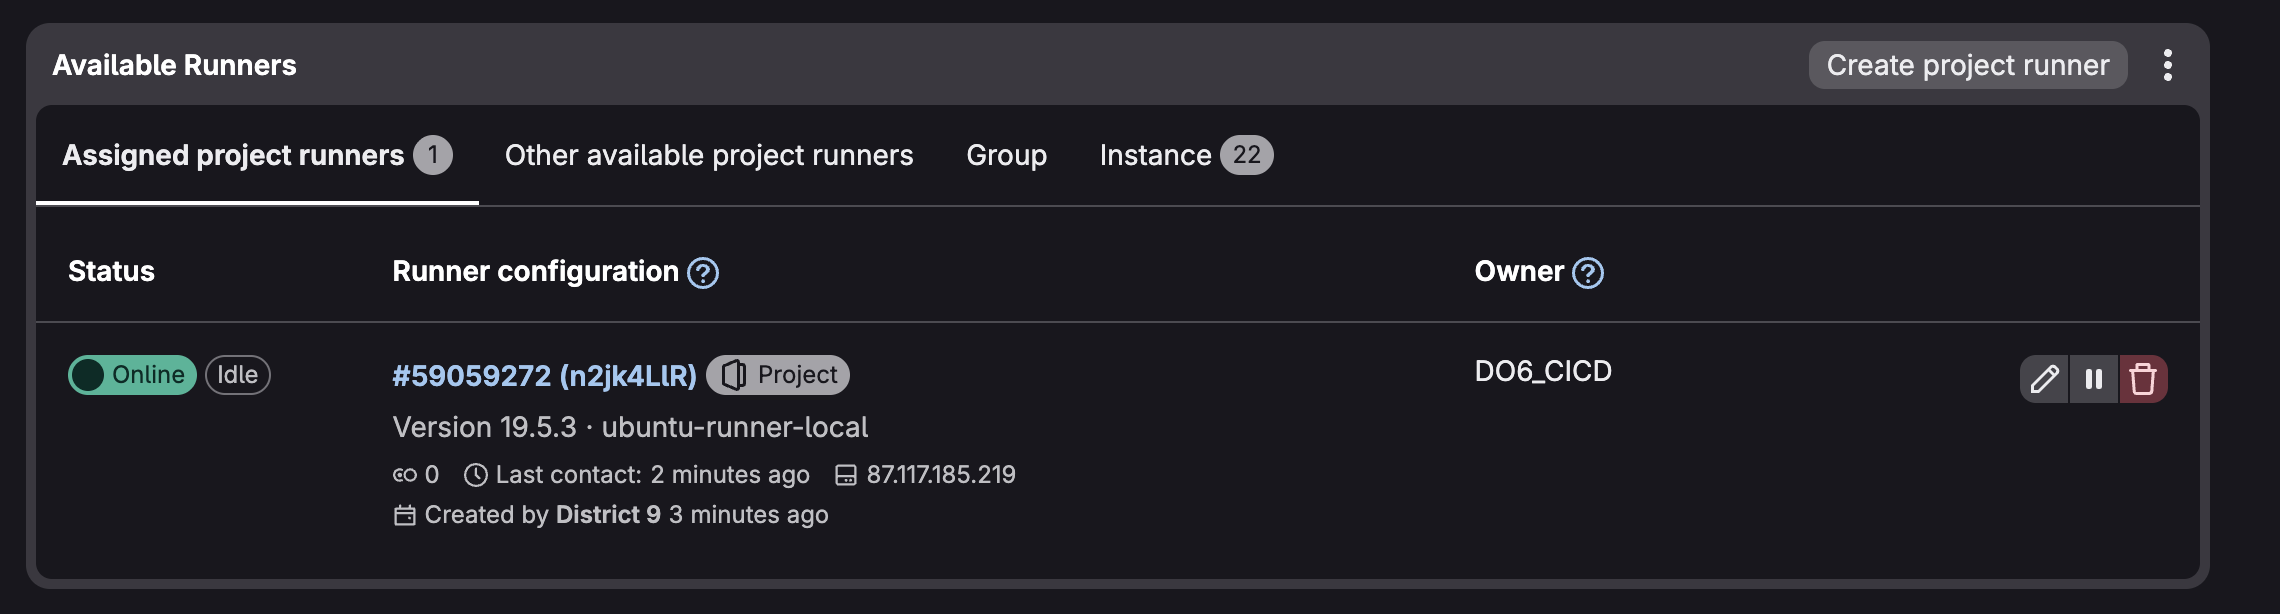
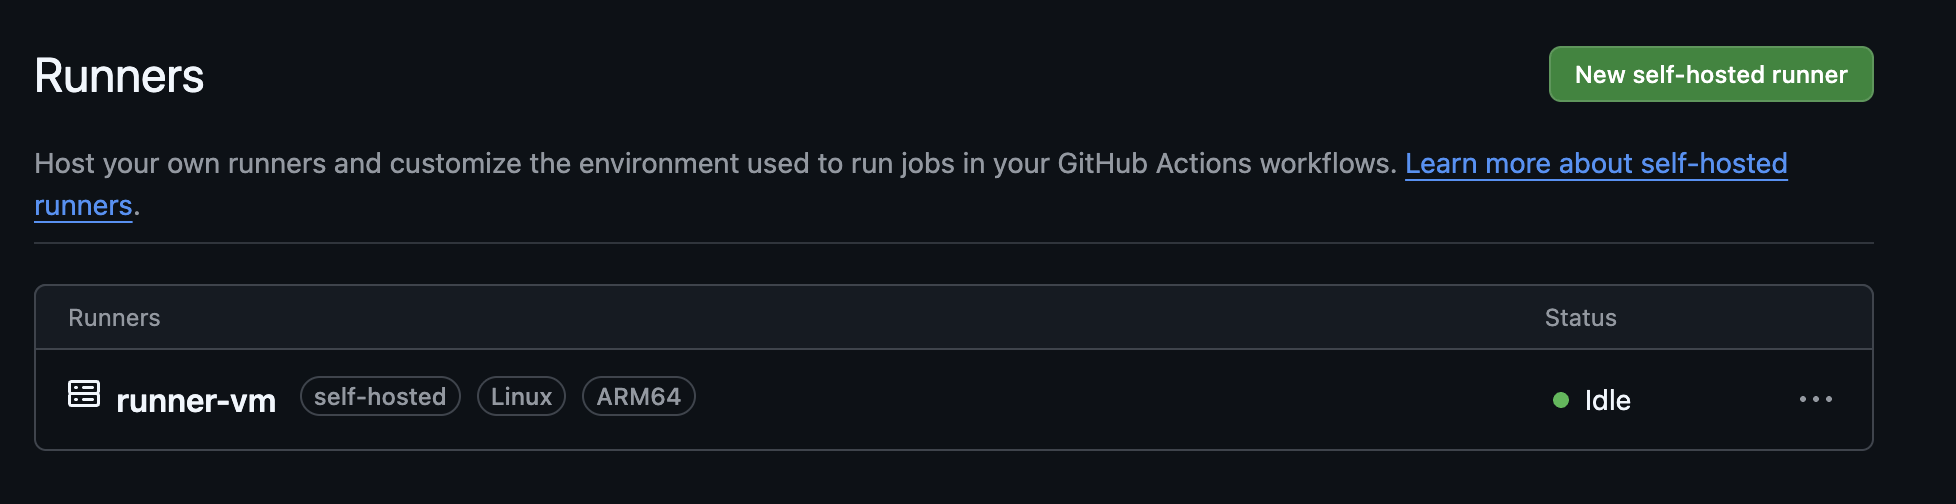
style: apply clang-format

diff --git a/code-samples/main.c b/code-samples/main.c
@@ -2,35 +2,35 @@
 #include <stdlib.h>
 
 int main(int argc, char *argv[]) {
-  if (argc != 2) {
-    printf("Bad number of arguments!\n");
-    return -1;
-  }
+	if (argc != 2) {
+		printf("Bad number of arguments!\n");
+		return -1;
+	}
+	
+	int num = atoi(argv[1]);
+	switch (num) {
+		case 1:
+			printf("Learning to Linux\n");
+			break;
+		case 2:
+			printf("Learning to work with Network\n");
+			break;
+		case 3:
+			printf("Learning to Monitoring\n");
+			break;
+		case 4:
+			printf("Learning to extra Monitoring\n");
+			break;
+		case 5:
+			printf("Learning to Docker\n");
+			break;
+		case 6:
+			printf("Learning to CI/CD\n");
+			break;
+		default:
+			printf("Bad number!\n");
+			return -2;
+	}
 
-  int num = atoi(argv[1]);
-  switch (num) {
-    case 1:
-      printf("Learning to Linux\n");
-      break;
-    case 2:
-      printf("Learning to work with Network\n");
-      break;
-    case 3:
-      printf("Learning to Monitoring\n");
-      break;
-    case 4:
-      printf("Learning to extra Monitoring\n");
-      break;
-    case 5:
-      printf("Learning to Docker\n");
-      break;
-    case 6:
-      printf("Learning to CI/CD\n");
-      break;
-    default:
-      printf("Bad number!\n");
-      return -2;
-  }
-
-  return 0;
+    return 0;
 }

diff --git a/src/report.md b/src/report.md
@@ -18,3 +18,32 @@
 
 - Статус runner в GitLab (online):
   ![Runner online](screenshots/part1_runner_online.png)
+
+
+## Part 2. Сборка
+
+В файл `.github/workflows/ci.yml` добавлен этап `build`, который автоматически запускает сборку приложения из папки `code-samples` (утилита DO). Артефакт сборки (бинарник `DO`) сохраняется в GitHub на 30 дней.
+
+Пайплайн успешно проходит этап сборки.
+
+- Успешный пайплайн со стадией сборки:
+  ![Pipeline success](screenshots/part2_github_pipeline.png)
+
+- Лог выполнения сборки (компиляция без ошибок):
+  ![Job log](screenshots/part2_github_job_log.png)
+
+- Сохраненные артефакты (бинарник DO):
+  ![Artifacts](screenshots/part2_github_artifacts.png)
+*Пояснение:* В отличие от GitLab, где артефакты отображаются отдельным блоком в интерфейсе, в GitHub Actions информация о загрузке артефакта выводится в логе шага `Upload artifact`. На скриншоте видно, что артефакт `DO-binary` успешно загружен (Final size: 3088 bytes) и получена прямая ссылка (Artifact download URL) для его скачивания. Это подтверждает, что бинарник сохранен и доступен.
+
+## Part 3. Тест кодстайла
+
+В файл `.github/workflows/ci.yml` добавлен этап `style`, который запускает проверку форматирования кода с помощью утилиты `clang-format`. Этап зависит от успешной сборки (`needs: build`), поэтому запускается только после неё.
+
+Если код не соответствует стандартам, утилита возвращает ненулевой код выхода, и пайплайн завершается с ошибкой (красный статус).
+
+- Успешный пайплайн со стадиями сборки и стиля:
+  ![Pipeline success](screenshots/part3_github_pipeline.png)
+
+- Лог проверки кодстайла:
+  ![Style log](screenshots/part3_github_style_log.png)
